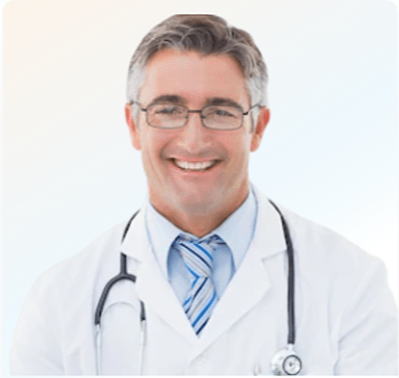
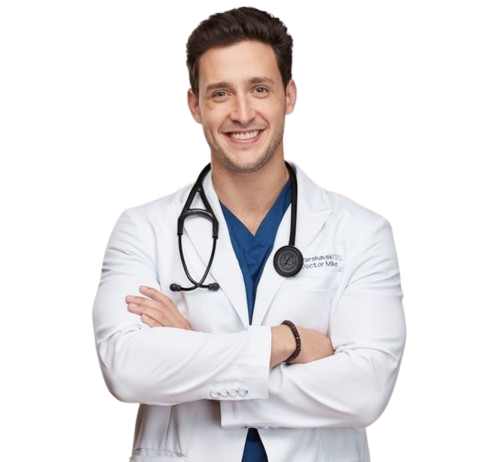
new

diff --git a/doctors.php b/doctors.php
@@ -16,21 +16,21 @@
         <div class="container doctors__container">
             <article class='doctors__item'>
                 <div class="doctors__item-image">
-                    <img src="./images/doctd1.PNG" alt="doct1">
+                    <img src="./images/doctd1.png" alt="doct1">
                 </div>
                 <h2>Dr. John Smith</h2>
                 <h5>Cardiologist</h5>
             </article>
             <article class='doctors__item'>
                 <div class="doctors__item-image">
-                    <img src="./images/doctd2.PNG" alt="doctd2">
+                    <img src="./images/doctd2.png" alt="doctd2">
                 </div>
                 <h2>Dr. Jenny Wilson</h2>
                 <h5>Neurologist</h5>
             </article>
             <article class='doctors__item'>
                 <div class="doctors__item-image">
-                    <img src="./images/doctd3.PNG" alt="doct3">
+                    <img src="./images/doctd3.png" alt="doct3">
                 </div>
                 <h2>Dr. Kristin Watson</h2>
                 <h5>Orthopedist</h5>
@@ -40,14 +40,21 @@
             </article>
             <article class='doctors__item'>
                 <div class="doctors__item-image">
-                    <img src="./images/doctd4.jpg" alt="doct4">
+                    <img src="./images/doct6.png" alt="doct6">
+                </div>
+                <h2>Dr. Bella Switie</h2>
+                <h5>Surergy</h5>
+            </article>
+            <article class='doctors__item'>
+                <div class="doctors__item-image">
+                    <img src="./images/doctd4.png" alt="doct4">
                 </div>
                 <h2>Dr. Bella Switie</h2>
                 <h5>Obstetrist</h5>
             </article>
             <article class='doctors__item'>
                 <div class="doctors__item-image">
-                    <img src="./images/doctd5.jpg" alt="doct5">
+                    <img src="./images/doctd5.png" alt="doct5">
                 </div>
                 <h2>Dr. Bahar Ozden</h2>
                 <h5>Pediatrist</h5>

diff --git a/users-edit.php b/users-edit.php
@@ -1,5 +1,7 @@
 <?php
+    include("dbconnect.php");
     include("sidebar.php");
+
 ?>
 
 <!DOCTYPE html>
@@ -42,10 +44,6 @@
                         <div class="mb-4">
                             <input type="text" name="adress">
                             <label>Adress</label>
-                        </div>
-                        <div class="mb-4">
-                            <input type="text" name="phone">
-                            <label>Phone</label>
                         </div>
                         <div class="mb-4">
                             <input type="email" name="email">
